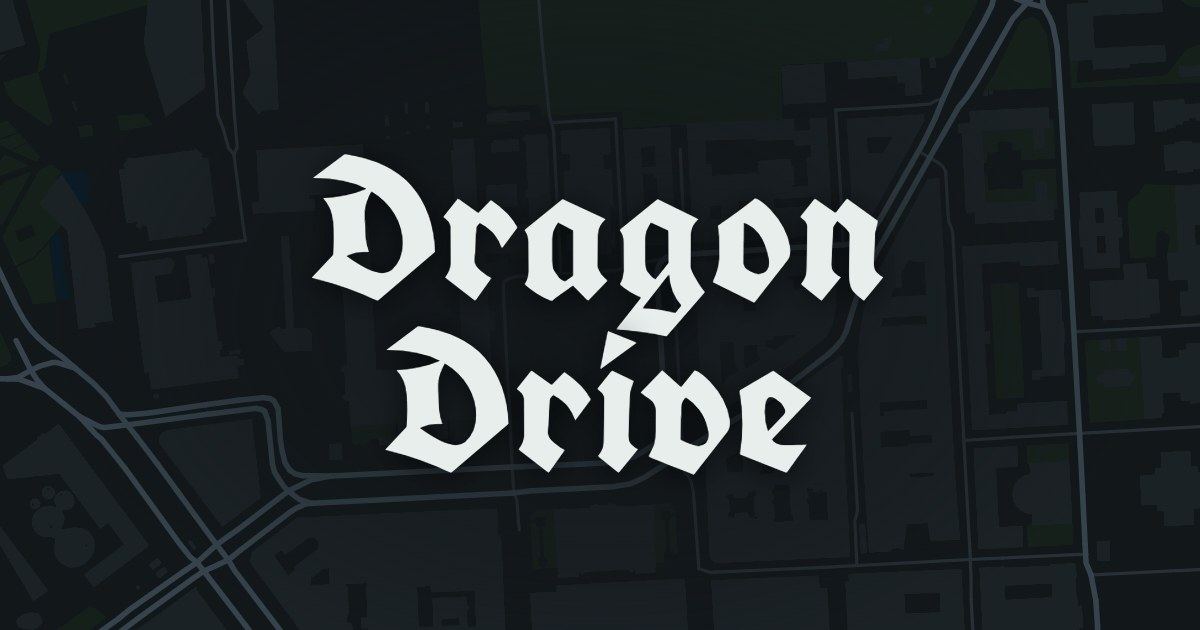
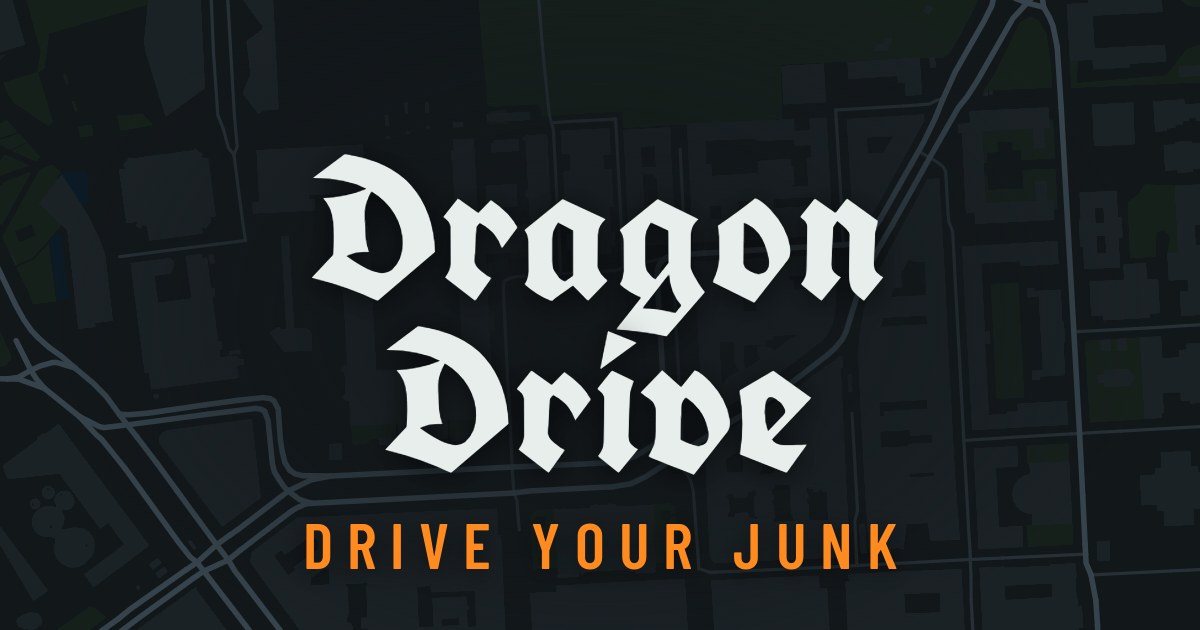
Add the motto "Drive your junk"
Feed heading eyebrow, page and link-preview descriptions, the web app
manifest, the README, and a tagline under the wordmark on og.jpg.

Claude-Session: https://claude.ai/code/session_01PpiA3MHoN1Ge1KkRsUPUWk

Changed region(s): [[0.2467, 0.8143, 0.7708, 0.9048]]

diff --git a/index.html b/index.html
@@ -8,17 +8,17 @@
 <link rel="icon" href="icon.svg" type="image/svg+xml">
 <link rel="apple-touch-icon" href="apple-touch-icon.png">
 <meta name="apple-mobile-web-app-capable" content="yes">
-<meta name="description" content="Log your drives, see your stats, and share your routes.">
+<meta name="description" content="Drive your junk. Log your drives, see your stats, and share your routes.">
 <meta property="og:type" content="website">
 <meta property="og:site_name" content="Dragon Drive">
 <meta property="og:title" content="Dragon Drive">
-<meta property="og:description" content="Log your drives, see your stats, and share your routes.">
+<meta property="og:description" content="Drive your junk. Log your drives, see your stats, and share your routes.">
 <meta property="og:url" content="https://dragondrive.turboloser.co/">
 <meta property="og:image" content="https://dragondrive.turboloser.co/og.jpg">
 <meta property="og:image:type" content="image/jpeg">
 <meta property="og:image:width" content="1200">
 <meta property="og:image:height" content="630">
-<meta property="og:image:alt" content="Dragon Drive, written over a dark street map">
+<meta property="og:image:alt" content="Dragon Drive, Drive your junk, written over a dark street map">
 <meta name="twitter:card" content="summary_large_image">
 <meta name="twitter:image" content="https://dragondrive.turboloser.co/og.jpg">
 <style>:root{padding-top:env(safe-area-inset-top,0px);padding-bottom:env(safe-area-inset-bottom,0px)}body{margin:0}img{max-width:100%}[hidden]{display:none!important}</style>
@@ -1060,7 +1060,7 @@ function viewFeed(){
   const drives=all;
   const nudge=Sync.on()&&!Sync.user?`<div class="notice signup"><div style="flex:1;min-width:180px"><b>Join Dragon Drive</b> to follow friends, share your drives and keep them on all your devices.</div><div class="row" style="gap:8px"><a class="btn" href="#you" data-signin="in" style="color:var(--fg)">Sign in</a><a class="btn primary" href="#you" data-signin="new" style="color:var(--accent-fg)">Create an account</a></div></div>`:Social.ok()&&Social.SOC.loaded&&!Social.me?`<a class="notice" href="#you" style="display:block;text-decoration:none;color:inherit"><b>Pick your @handle</b> so friends can find and follow you.</a>`:Social.ready()&&![...Social.SOC.following].some(id=>(Social.SOC.profiles.get(id)||{}).handle!=="burnout")?`<a class="notice" href="#you" style="display:block;text-decoration:none;color:inherit"><b>Follow your friends</b> to see their drives here. Find them by @handle or send your invite link.</a>`:"";
   $("#view").innerHTML=`<div class="stack">
-    <div class="row"><div><div class="eyebrow">Your road crew</div><h1>Feed</h1></div><span class="spacer"></span><a class="btn primary" href="#record">Start a drive</a></div>
+    <div class="row"><div><div class="eyebrow">Drive your junk</div><h1>Feed</h1></div><span class="spacer"></span><a class="btn primary" href="#record">Start a drive</a></div>
     ${nudge}
     ${canPost?`<div class="panel" id="adm-stats"><h3>Dragon Drive stats</h3><p class="muted small" style="margin:0">Loading…</p></div>`:""}
     ${canPost?`<form class="panel compose" id="ann-form"><h3>Post an announcement</h3><textarea id="ann-in" rows="3" maxlength="1000" placeholder="Everyone on Dragon Drive will see this in their feed." required></textarea><div class="row"><span class="muted small" style="flex:1">Posting as ${nameHtml(Social.person("u:"+Sync.user.uid))}</span><button class="btn primary" type="submit">Post</button></div></form>`:""}

diff --git a/app.html b/app.html
@@ -1034,7 +1034,7 @@ function viewFeed(){
   const drives=all;
   const nudge=Sync.on()&&!Sync.user?`<div class="notice signup"><div style="flex:1;min-width:180px"><b>Join Dragon Drive</b> to follow friends, share your drives and keep them on all your devices.</div><div class="row" style="gap:8px"><a class="btn" href="#you" data-signin="in" style="color:var(--fg)">Sign in</a><a class="btn primary" href="#you" data-signin="new" style="color:var(--accent-fg)">Create an account</a></div></div>`:Social.ok()&&Social.SOC.loaded&&!Social.me?`<a class="notice" href="#you" style="display:block;text-decoration:none;color:inherit"><b>Pick your @handle</b> so friends can find and follow you.</a>`:Social.ready()&&![...Social.SOC.following].some(id=>(Social.SOC.profiles.get(id)||{}).handle!=="burnout")?`<a class="notice" href="#you" style="display:block;text-decoration:none;color:inherit"><b>Follow your friends</b> to see their drives here. Find them by @handle or send your invite link.</a>`:"";
   $("#view").innerHTML=`<div class="stack">
-    <div class="row"><div><div class="eyebrow">Your road crew</div><h1>Feed</h1></div><span class="spacer"></span><a class="btn primary" href="#record">Start a drive</a></div>
+    <div class="row"><div><div class="eyebrow">Drive your junk</div><h1>Feed</h1></div><span class="spacer"></span><a class="btn primary" href="#record">Start a drive</a></div>
     ${nudge}
     ${canPost?`<div class="panel" id="adm-stats"><h3>Dragon Drive stats</h3><p class="muted small" style="margin:0">Loading…</p></div>`:""}
     ${canPost?`<form class="panel compose" id="ann-form"><h3>Post an announcement</h3><textarea id="ann-in" rows="3" maxlength="1000" placeholder="Everyone on Dragon Drive will see this in their feed." required></textarea><div class="row"><span class="muted small" style="flex:1">Posting as ${nameHtml(Social.person("u:"+Sync.user.uid))}</span><button class="btn primary" type="submit">Post</button></div></form>`:""}

diff --git a/README.md b/README.md
@@ -1,5 +1,7 @@
 # Dragon Drive
 
+**Drive your junk.** Put miles on your project car.
+
 A Strava-style logbook for driving. Record a drive with your phone or a performance GPS, see the route, elevation and g-force, time your runs, share drives in a feed with kudos and comments, and post a share card with your photo.
 
 Live at https://dragondrive.turboloser.co
